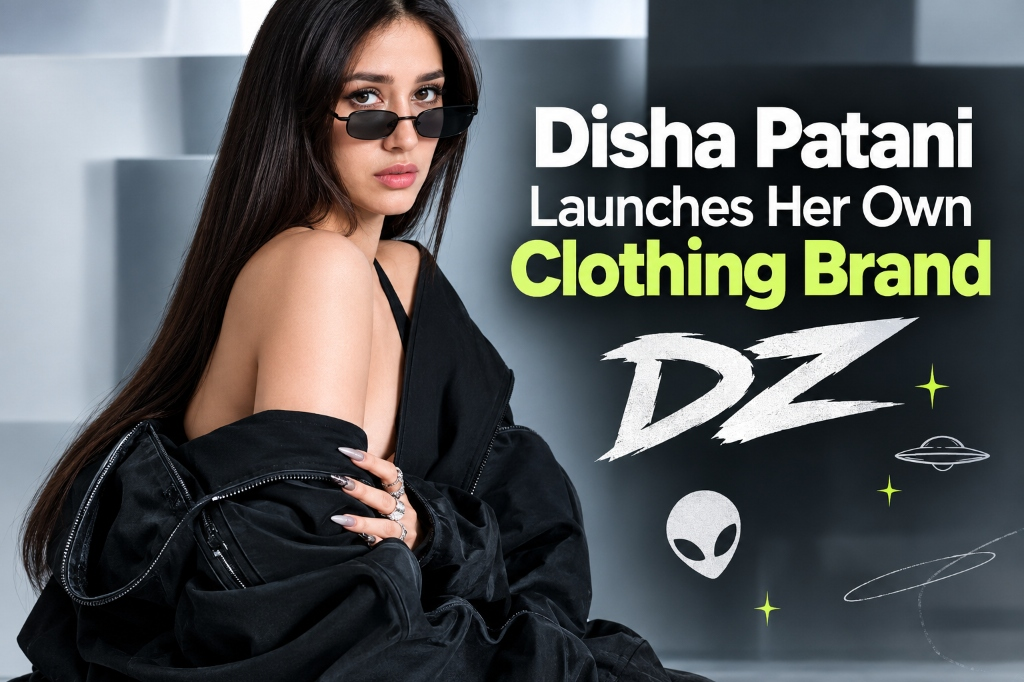
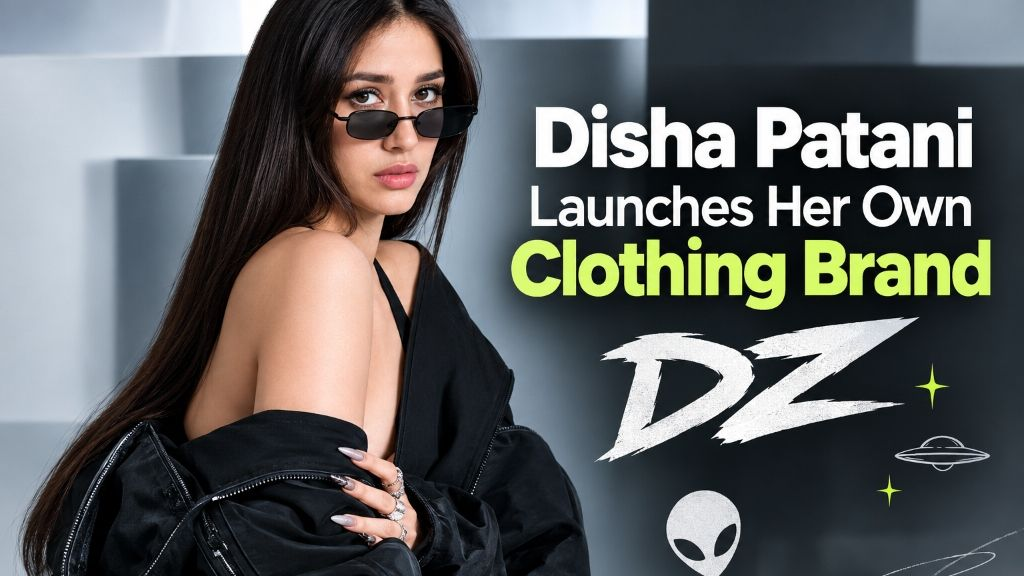
Fix article image cropping: harmonize 16:9 box aspect ratios and thumbnail framing across all pages

diff --git a/src/app/reality-shows/RealityShowsView.tsx b/src/app/reality-shows/RealityShowsView.tsx
@@ -183,10 +183,9 @@ export default function RealityShowsView() {
                 alt="Bigg Boss 20: Will Gullu Be Evicted After Yung DSA Fight?"
                 fill
                 priority
-                className="object-cover transition-transform duration-500 group-hover:scale-105"
+                className="object-cover object-center transition-transform duration-500 group-hover:scale-105"
                 sizes="(max-width: 980px) 100vw, 65vw"
               />
-              <div className="absolute inset-0 bg-gradient-to-t from-[var(--ink-2)] via-transparent to-black/40 pointer-events-none" />
               <div className="noise" />
               <span className="badge pink feature-tag z-10">
                 🔥 Eviction Row
@@ -221,10 +220,9 @@ export default function RealityShowsView() {
                   src="/images/bigg-boss-20-100-per-cent-ration-housemates.jpg"
                   alt="Bigg Boss 20: Housemates Get 100% Ration for the First Time"
                   fill
-                  className="object-cover transition-transform duration-500 group-hover:scale-105"
+                  className="object-cover object-center transition-transform duration-500 group-hover:scale-105"
                   sizes="(max-width: 980px) 100vw, 35vw"
                 />
-                <div className="absolute inset-0 bg-gradient-to-t from-[var(--ink-2)] via-transparent to-black/30 pointer-events-none" />
                 <span className="badge lime z-10 relative">100% Ration</span>
               </div>
               <div className="card-body">
@@ -249,10 +247,9 @@ export default function RealityShowsView() {
                   src="/images/janhvi-kapoor-veer-pahariya-concert-advice-koffee-with-karan.jpg"
                   alt="Janhvi Kapoor's Concert Advice for Veer Pahariya on Koffee With Karan"
                   fill
-                  className="object-cover transition-transform duration-500 group-hover:scale-105"
+                  className="object-cover object-center transition-transform duration-500 group-hover:scale-105"
                   sizes="(max-width: 980px) 100vw, 35vw"
                 />
-                <div className="absolute inset-0 bg-gradient-to-t from-[var(--ink-2)] via-transparent to-black/30 pointer-events-none" />
                 <span className="badge pink z-10 relative">KWK 9 Scoop</span>
               </div>
               <div className="card-body">

diff --git a/src/app/bollywood/BollywoodView.tsx b/src/app/bollywood/BollywoodView.tsx
@@ -191,7 +191,6 @@ export default function BollywoodView() {
                 className="object-cover object-center transition-transform duration-500 group-hover:scale-105"
                 sizes="(max-width: 980px) 100vw, 65vw"
               />
-              <div className="absolute inset-0 bg-gradient-to-t from-[var(--ink-2)] via-transparent to-black/40 pointer-events-none" />
               <div className="noise" />
               <span className="badge pink feature-tag z-10">
                 🎬 Trailer Out
@@ -226,10 +225,9 @@ export default function BollywoodView() {
                   src="/images/disha-patani-launches-clothing-brand-dz.jpg"
                   alt="Disha Patani Launches Her Own Clothing Brand DZ"
                   fill
-                  className="object-cover transition-transform duration-500 group-hover:scale-105"
+                  className="object-cover object-center transition-transform duration-500 group-hover:scale-105"
                   sizes="(max-width: 980px) 100vw, 35vw"
                 />
-                <div className="absolute inset-0 bg-gradient-to-t from-[var(--ink-2)] via-transparent to-black/30 pointer-events-none" />
                 <span className="badge pink z-10 relative">Fashion Label</span>
               </div>
               <div className="card-body">
@@ -254,10 +252,9 @@ export default function BollywoodView() {
                   src="/images/janhvi-kapoor-veer-pahariya-concert-advice-koffee-with-karan.jpg"
                   alt="Janhvi Kapoor's Concert Advice for Veer Pahariya on Koffee With Karan Is Going Viral"
                   fill
-                  className="object-cover transition-transform duration-500 group-hover:scale-105"
+                  className="object-cover object-center transition-transform duration-500 group-hover:scale-105"
                   sizes="(max-width: 980px) 100vw, 35vw"
                 />
-                <div className="absolute inset-0 bg-gradient-to-t from-[var(--ink-2)] via-transparent to-black/30 pointer-events-none" />
                 <span className="badge pink z-10 relative">Viral Scoop</span>
               </div>
               <div className="card-body">

diff --git a/src/app/movies/MoviesView.tsx b/src/app/movies/MoviesView.tsx
@@ -141,7 +141,6 @@ export default function MoviesView() {
                 className="object-cover object-center transition-transform duration-500 group-hover:scale-105"
                 sizes="(max-width: 980px) 100vw, 65vw"
               />
-              <div className="absolute inset-0 bg-gradient-to-t from-[var(--ink-2)] via-transparent to-black/30 pointer-events-none" />
               <div className="noise" />
               <span className="badge pink feature-tag z-10">
                 🎬 Trailer Out
@@ -176,10 +175,9 @@ export default function MoviesView() {
                   src="/images/bhumi-pednekar-akshay-kumar-priyadarshan-next-film.jpg"
                   alt="Bhumi Pednekar Joins Akshay Kumar in Priyadarshan’s Next Film"
                   fill
-                  className="object-cover transition-transform duration-500 group-hover:scale-105"
+                  className="object-cover object-center transition-transform duration-500 group-hover:scale-105"
                   sizes="(max-width: 980px) 100vw, 35vw"
                 />
-                <div className="absolute inset-0 bg-gradient-to-t from-[var(--ink-2)] via-transparent to-black/30 pointer-events-none" />
                 <span className="badge pink z-10 relative">Casting Scoop</span>
               </div>
               <div className="card-body">
@@ -204,10 +202,9 @@ export default function MoviesView() {
                   src="/images/janhvi-kapoor-peddi-controversy-koffee-with-karan-9.jpg"
                   alt="Janhvi Kapoor Breaks Silence on Peddi Controversy"
                   fill
-                  className="object-cover transition-transform duration-500 group-hover:scale-105"
+                  className="object-cover object-center transition-transform duration-500 group-hover:scale-105"
                   sizes="(max-width: 980px) 100vw, 35vw"
                 />
-                <div className="absolute inset-0 bg-gradient-to-t from-[var(--ink-2)] via-transparent to-black/30 pointer-events-none" />
                 <span className="badge pink z-10 relative">Film Row</span>
               </div>
               <div className="card-body">

diff --git a/src/app/globals.css b/src/app/globals.css
@@ -246,7 +246,9 @@ nav {
 }
 
 .feature-media {
-  height: 380px;
+  aspect-ratio: 16 / 9;
+  width: 100%;
+  height: auto;
   background:
     radial-gradient(circle at 25% 20%, rgba(228, 34, 46, 0.4), transparent 55%),
     radial-gradient(circle at 80% 75%, rgba(31, 107, 44, 0.5), transparent 55%),
@@ -527,7 +529,9 @@ nav {
 }
 
 .card-media {
-  height: 205px;
+  aspect-ratio: 16 / 9;
+  width: 100%;
+  height: auto;
   position: relative;
   overflow: hidden;
   display: flex;
@@ -1501,7 +1505,9 @@ select {
 }
 
 .lead .feature-media {
-  height: 320px;
+  aspect-ratio: 16 / 9;
+  width: 100%;
+  height: auto;
 }
 
 .lead .feature-body h2 {
@@ -1515,7 +1521,9 @@ select {
 }
 
 .stack .card-media {
-  height: 130px;
+  aspect-ratio: 16 / 9;
+  width: 100%;
+  height: auto;
 }
 
 .hub {
@@ -1573,9 +1581,6 @@ select {
   }
   .ph h1 {
     font-size: 40px;
-  }
-  .lead .feature-media {
-    height: 240px;
   }
 }
 

diff --git a/src/app/page.tsx b/src/app/page.tsx
@@ -432,7 +432,7 @@ export default function Home() {
                 fill
                 priority
                 sizes="(max-width: 768px) 100vw, (max-width: 1200px) 60vw, 750px"
-                style={{ objectFit: "cover", objectPosition: "center 20%" }}
+                style={{ objectFit: "cover", objectPosition: "center" }}
                 className="group-hover:scale-[1.03] transition-transform duration-500"
               />
               <div className="noise" style={{ pointerEvents: "none" }}></div>
